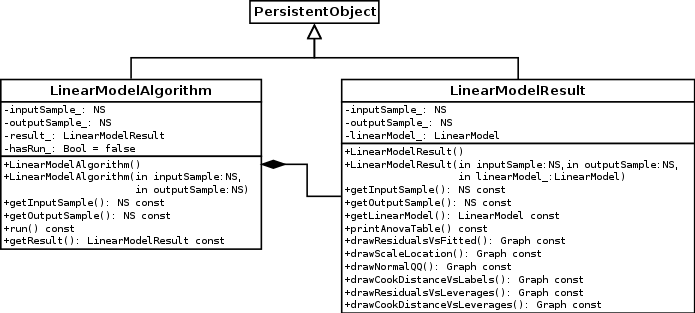
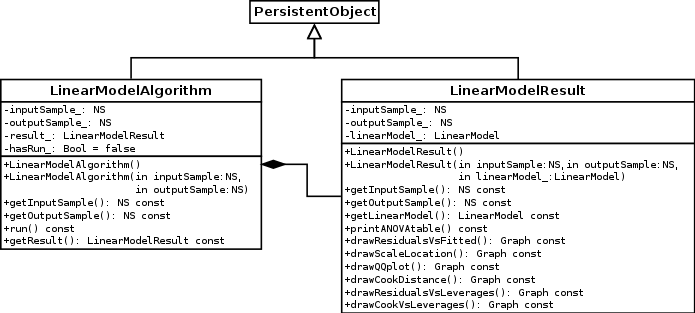
Rename several draw methods

Changed region(s): [[0.5741, 0.9489, 0.8763, 1.0], [0.5439, 0.8339, 0.846, 0.9201], [0.5439, 0.7188, 0.6043, 0.7476]]

diff --git a/EDF_linear_regression/GRAPHIQUE_LifeCycleSavings/LifeCycleSavings.py b/EDF_linear_regression/GRAPHIQUE_LifeCycleSavings/LifeCycleSavings.py
@@ -25,7 +25,7 @@ inputSample = Sample[:,1:5]
 algo1 = ot.LinearModelAlgorithm(inputSample, outputSample)
 result1 = algo1.getResult()
 
-# for plot in ["drawResidualsVsFitted", "drawScaleLocation", "drawNormalQQ", "drawCookDistanceVsLabels", "drawResidualsVsLeverages", "drawCookDistanceVsLeverages"]:
+# for plot in ["drawResidualsVsFitted", "drawScaleLocation", "drawQQplot", "drawCookDistance", "drawResidualsVsLeverages", "drawCookVsLeverages"]:
 #     graph = getattr(result1, plot)()
 #     View(graph)
 
@@ -38,11 +38,11 @@ graph = result1.drawScaleLocation()
 View(graph)
 
 # Normal quantiles-quantiles plot of standardized residuals
-graph = result1.drawNormalQQ()
+graph = result1.drawQQplot()
 View(graph)
 
 # plot of Cook's distances versus row labels
-graph = result1.drawCookDistanceVsLabels()
+graph = result1.drawCookDistance()
 View(graph)
 
 # plot of residuals versus leverages that adds bands corresponding to Cook's distances of 0.5 and 1
@@ -50,7 +50,7 @@ graph = result1.drawResidualsVsLeverages()
 View(graph)
 
 # plot of Cook's distances versus leverage/(1-leverage)
-graph = result1.drawCookDistanceVsLeverages()
+graph = result1.drawCookVsLeverages()
 View(graph)
 
 # model2
@@ -71,11 +71,11 @@ graph = result2.drawScaleLocation()
 View(graph)
 
 # Normal quantiles-quantiles plot of standardized residuals
-graph = result2.drawNormalQQ()
+graph = result2.drawQQplot()
 View(graph)
 
 # plot of Cook's distances versus row labels
-graph = result2.drawCookDistanceVsLabels()
+graph = result2.drawCookDistance()
 View(graph)
 
 # plot of residuals versus leverages that adds bands corresponding to Cook's distances of 0.5 and 1
@@ -83,6 +83,6 @@ graph = result2.drawResidualsVsLeverages()
 View(graph)
 
 # plot of Cook's distances versus leverage/(1-leverage)
-graph = result2.drawCookDistanceVsLeverages()
+graph = result2.drawCookVsLeverages()
 View(graph)
 
